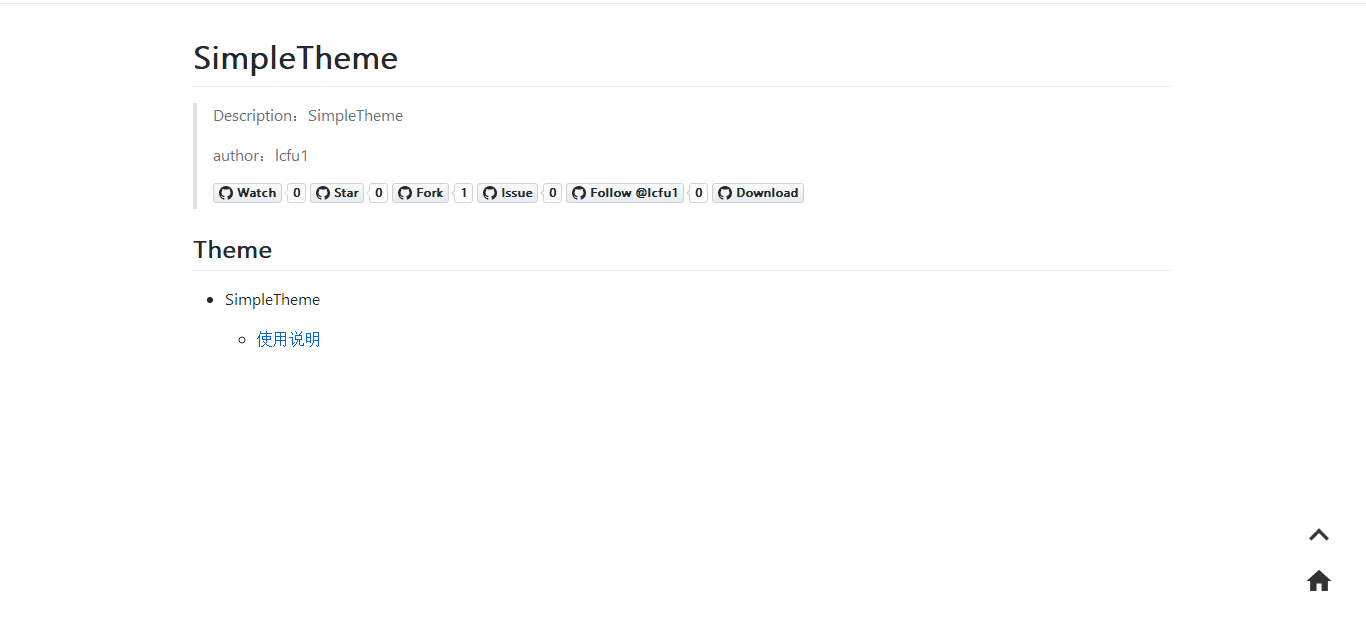
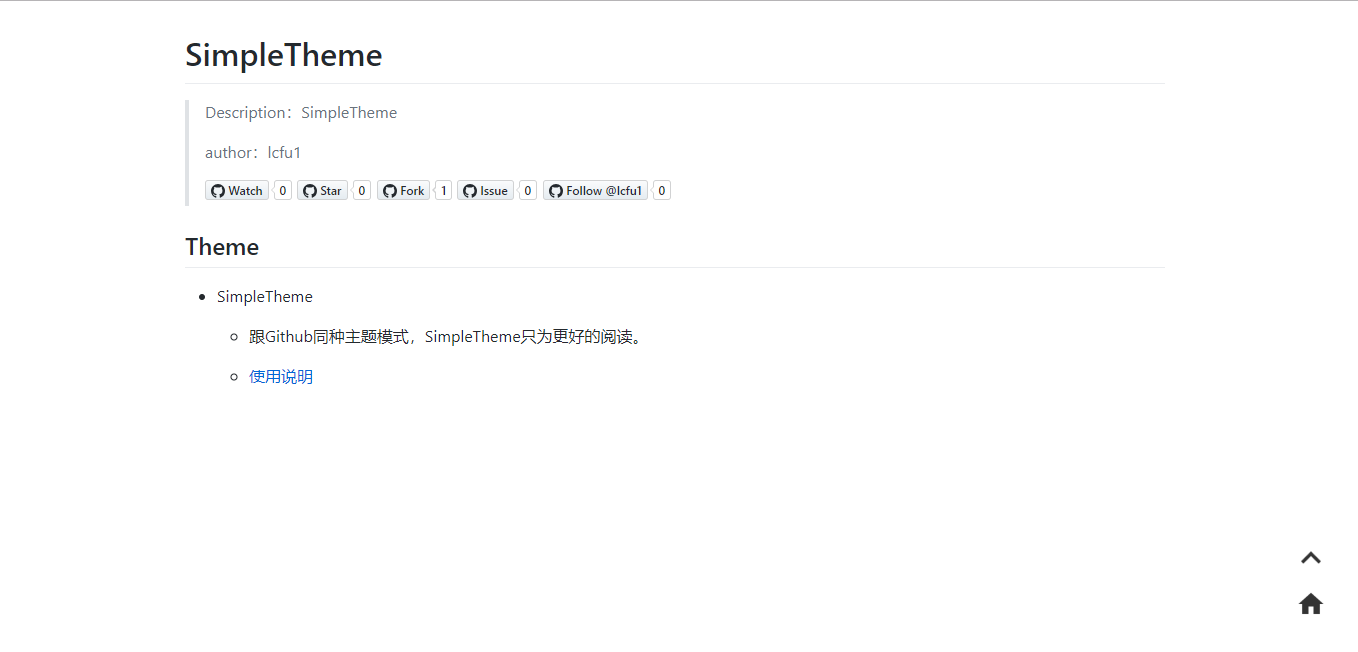
修改

diff --git a/use/use.md b/use/use.md
@@ -14,7 +14,7 @@
 3、打开_config.yml进行配置，如下。
 
 ```
-#title必须设置和github上该repository的name一致，如果该repository name为"用户名.github.io"，则不需要填。
+#title必须设置和github上该repository的name一致。
 title: SimpleTheme
 
 #author设置为github用户名
@@ -22,7 +22,7 @@ author: lcfu1
 
 description: SimpleTheme
 
-#把下面这个theme注释掉
+#记得把下面这个theme注释掉
 #theme: jekyll-theme-cayman
 ```
 
@@ -46,6 +46,7 @@ description: SimpleTheme
 
 - SimpleTheme
 
+	- 跟Github同种主题模式，SimpleTheme只为更好的阅读。
 	- [使用说明](use/use.md)
 ```
 

diff --git a/README.md b/README.md
@@ -16,7 +16,5 @@
 - SimpleTheme
 
   - 跟Github同种主题模式，SimpleTheme只为更好的阅读。
-
-
   - [使用说明](use/use.md)
 
